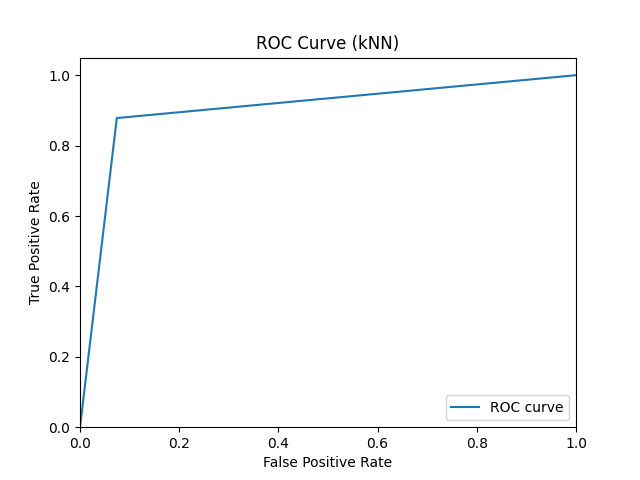
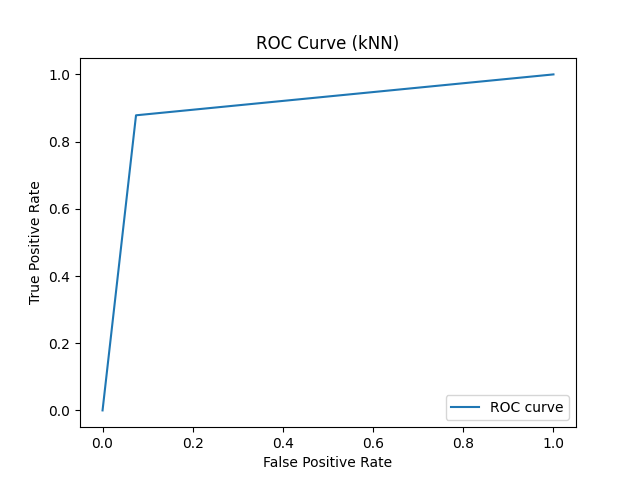
111

diff --git a/lr_accuracy.py b/lr_accuracy.py
@@ -52,15 +52,14 @@ def main():
 
     # Plotting ROC Curve for the last fold
     fpr, tpr, _ = roc_curve(y_test, y_pred_scores)
-    plt.figure(figsize=(7, 5))
-    plt.plot(fpr, tpr, color='blue', lw=2, label='ROC')
+    plt.figure()
+    plt.plot(fpr, tpr, label='ROC')
     plt.xlabel('False Positive Rate')
     plt.ylabel('True Positive Rate')
     plt.title('ROC Curve (LR-Ridge)')
     plt.legend(loc="lower right")
     plt.savefig('lr_roc.png')
     plt.show()
-
 """
 Average Accuracy: 0.7591391484679717
 Average F-1 Score: 0.6457939620387042

diff --git a/knn_accuracy.py b/knn_accuracy.py
@@ -15,9 +15,6 @@ def knn_plotROC(x_features, y_target):
 
     plt.figure()
     plt.plot(fpr, tpr, label='ROC curve')
-    #plt.plot([0, 1], [0, 1], 'k--')
-    plt.xlim([0.0, 1.0])
-    plt.ylim([0.0, 1.05])
     plt.xlabel('False Positive Rate')
     plt.ylabel('True Positive Rate')
     plt.title('ROC Curve (kNN)')

diff --git a/logR_accuracy.py b/logR_accuracy.py
@@ -37,8 +37,6 @@ def main():
     fpr, tpr, _ = roc_curve(y_target, probabilities)
     plt.figure()
     plt.plot(fpr, tpr, label='ROC')
-    plt.xlim([0.0, 1.0])
-    plt.ylim([0.0, 1.0])
     plt.xlabel('False Positive Rate')
     plt.ylabel('True Positive Rate')
     plt.title('ROC Curve (Logistic)')
